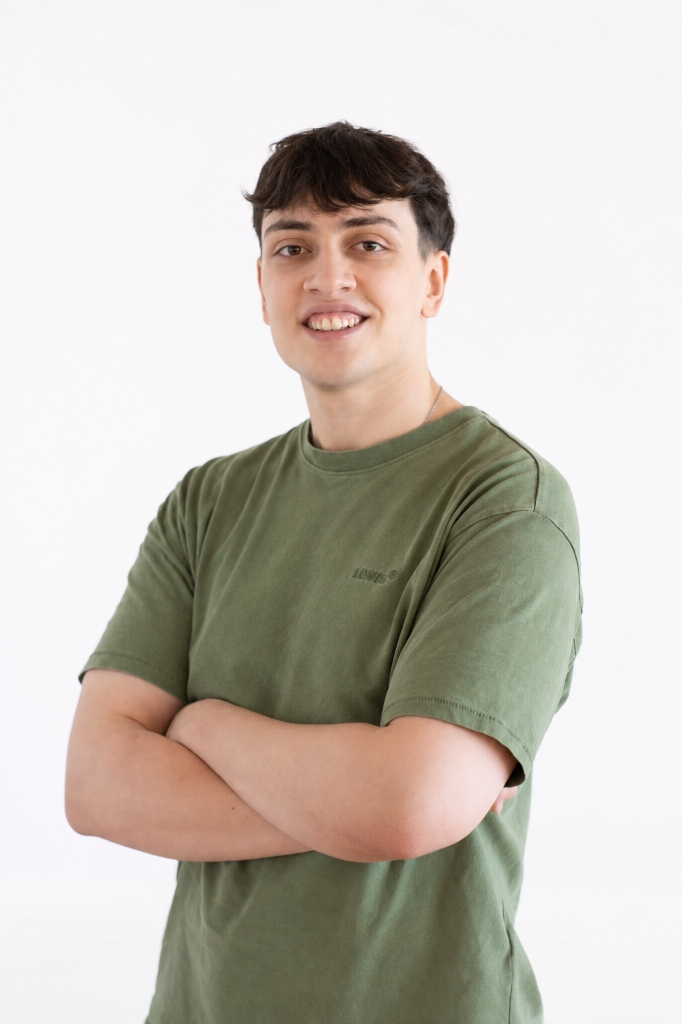
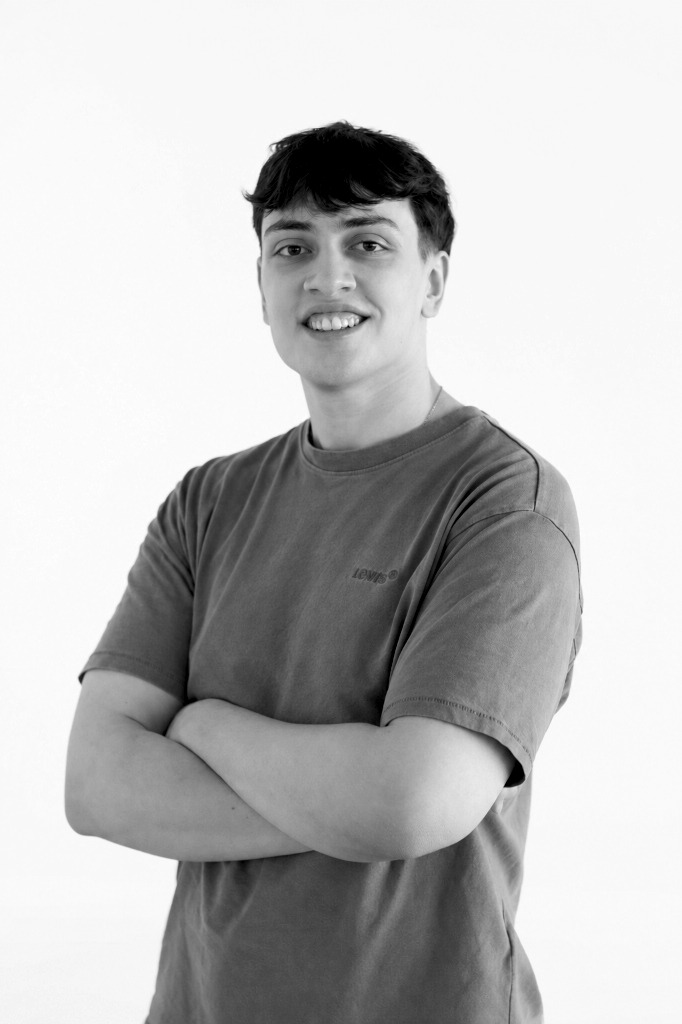
fixed return to in progress button visibility on selected orders in smaller view on webapp and converted founder portrait to monochrome on website

Changed region(s): [[0.0924, 0.125, 0.7698, 0.875]]

diff --git a/webapp/components/dashboard/current-orders-content.tsx b/webapp/components/dashboard/current-orders-content.tsx
@@ -346,11 +346,10 @@ export function CurrentOrdersContent({
                 await handleStatusChange(order.$id, "in_progress");
               }}
               className={cn(
-                "w-7 h-7 -ml-1 rounded-full flex items-center justify-center shrink-0 transition-all cursor-pointer active:scale-90",
+                "w-7 h-7 -ml-1 rounded-full flex items-center justify-center shrink-0 transition-all cursor-pointer active:scale-90 text-foreground border border-border/60 bg-muted/30 hover:bg-muted",
                 isSelected
-                  ? "hover:bg-white/20 text-white"
-                  : "hover:bg-muted text-foreground border border-border/60 bg-muted/30",
-                !isSelected && "desktop:hidden",
+                  ? "desktop:hover:bg-white/20 desktop:text-white desktop:border-transparent desktop:bg-transparent"
+                  : "desktop:hidden",
               )}
               title={t("backToInProgress")}
               aria-label={t("backToInProgress")}

diff --git a/website/components/MainPage.tsx b/website/components/MainPage.tsx
@@ -199,7 +199,7 @@ export function MainPage() {
                     alt={t("portraitAlt")}
                     fill
                     sizes="(max-width: 1024px) 100vw, 40vw"
-                    className="object-cover object-top"
+                    className="object-cover object-top grayscale"
                     priority
                   />
                 </div>
